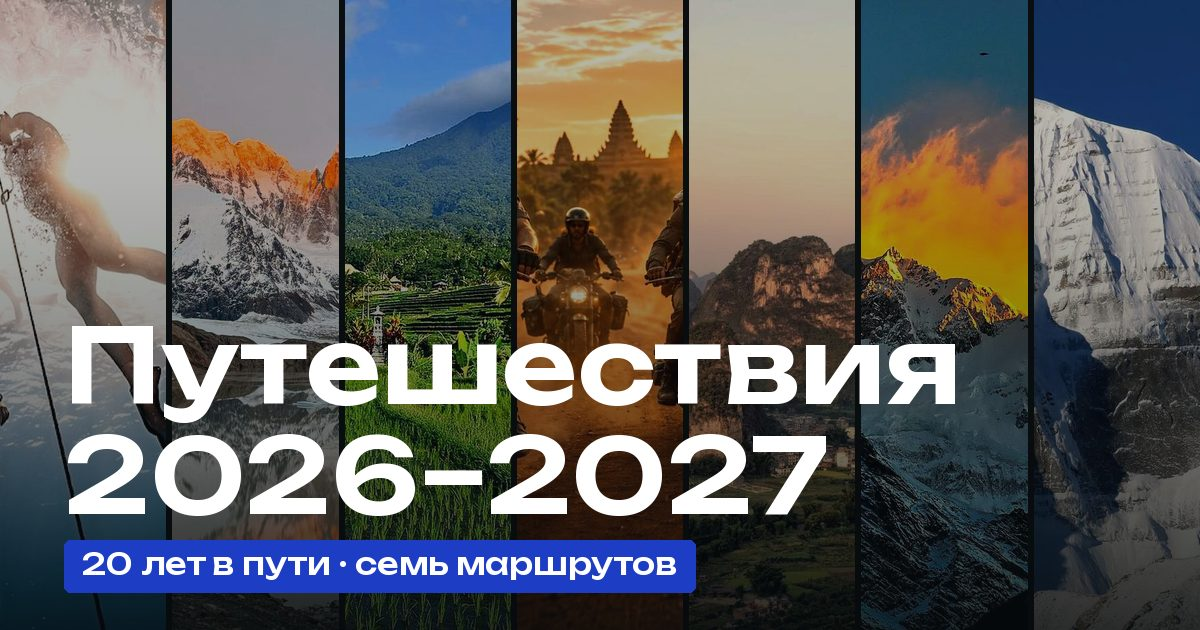
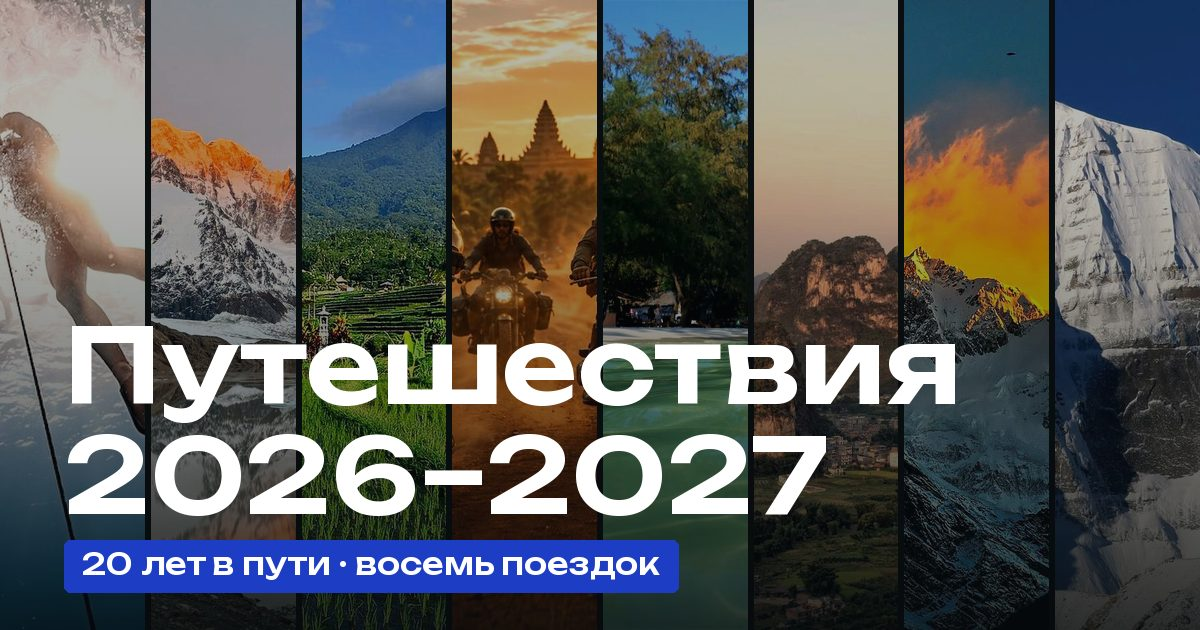
Ретрит на Ко Ронге отдельной главой после Камбоджи
- Новая поездка kohrong: 8–15 марта 2027, ведут Илья Баринов и
  Леонид Кутузов, до 20 человек, 1 000 € при двухместном размещении,
  предоплата 1 000 €. Описание и условия по cambodiamoto.ru/retreat,
  кнопка «Подробнее» ведёт туда же.
- Фото Ко Ронга с Wikimedia Commons (Rômulo Gama Ferreira, CC BY 2.0),
  автор и лицензия в подвале; WebP 1440 и 800.
- На первом экране и в превью ссылки восемь полос, «восемь поездок».

Claude-Session: https://claude.ai/code/session_01DHSb98UhaQtY4ABkNZchWn

diff --git a/index.html b/index.html
@@ -4,7 +4,7 @@
 <meta charset="utf-8">
 <meta name="viewport" content="width=device-width, initial-scale=1, viewport-fit=cover">
 <title>Путешествия 2026–2027</title>
-<meta name="description" content="Авторские путешествия, 20 лет опыта: особые места, практики в дороге и небольшие группы. Дахаб, Патагония, Бали, Камбоджа, Китай, Канченджанга и Тибет в сезоне 2026–2027.">
+<meta name="description" content="Авторские путешествия, 20 лет опыта: особые места, практики в дороге и небольшие группы. Дахаб, Патагония, Бали, Камбоджа, ретрит на Ко Ронге, Китай, Канченджанга и Тибет в сезоне 2026–2027.">
 <link rel="canonical" href="https://utromaya-code.github.io/travel-hub/">
 <link rel="icon" href="favicon.ico" sizes="32x32">
 <link rel="icon" href="favicon.svg" type="image/svg+xml">
@@ -15,11 +15,11 @@
 <meta property="og:locale" content="ru_RU">
 <meta property="og:url" content="https://utromaya-code.github.io/travel-hub/">
 <meta property="og:title" content="Путешествия 2026–2027">
-<meta property="og:description" content="Авторские путешествия, 20 лет опыта: особые места, практики в дороге и небольшие группы. Дахаб, Патагония, Бали, Камбоджа, Китай, Канченджанга и Тибет в сезоне 2026–2027.">
-<meta property="og:image" content="https://utromaya-code.github.io/travel-hub/img/og.jpg?v=982fd31d">
+<meta property="og:description" content="Авторские путешествия, 20 лет опыта: особые места, практики в дороге и небольшие группы. Дахаб, Патагония, Бали, Камбоджа, ретрит на Ко Ронге, Китай, Канченджанга и Тибет в сезоне 2026–2027.">
+<meta property="og:image" content="https://utromaya-code.github.io/travel-hub/img/og.jpg?v=454901f4">
 <meta property="og:image:width" content="1200">
 <meta property="og:image:height" content="630">
-<meta property="og:image:alt" content="Семь фото-полос поездок сезона и заголовок «Путешествия 2026–2027»">
+<meta property="og:image:alt" content="Восемь фото-полос поездок сезона и заголовок «Путешествия 2026–2027»">
 <meta name="twitter:card" content="summary_large_image">
 <link rel="preload" href="fonts/unbounded-cyrillic.woff2" as="font" type="font/woff2" crossorigin><link rel="preload" href="fonts/onest-cyrillic.woff2" as="font" type="font/woff2" crossorigin><link rel="preload" href="fonts/onest-latin.woff2" as="font" type="font/woff2" crossorigin><link rel="preload" href="img/dahab-800.webp" as="image" fetchpriority="high">
 <style>
@@ -38,7 +38,7 @@
 @font-face{font-family:"Unbounded";font-style:normal;font-weight:500 600;font-display:swap;src:url(fonts/unbounded-latin-ext.woff2) format("woff2");unicode-range:U+0100-02BA,U+02BD-02C5,U+02C7-02CC,U+02CE-02D7,U+02DD-02FF,U+0304,U+0308,U+0329,U+1D00-1DBF,U+1E00-1E9F,U+1EF2-1EFF,U+2020,U+20A0-20AB,U+20AD-20C4,U+2113,U+2C60-2C7F,U+A720-A7FF}
 @font-face{font-family:"Unbounded";font-style:normal;font-weight:500 600;font-display:swap;src:url(fonts/unbounded-latin.woff2) format("woff2");unicode-range:U+0000-00FF,U+0131,U+0152-0153,U+02BB-02BC,U+02C6,U+02DA,U+02DC,U+0304,U+0308,U+0329,U+2000-206F,U+20AC,U+2122,U+2191,U+2193,U+2212,U+2215,U+FEFF,U+FFFD}
 
-/* Витрина сезона: тёмный первый экран с семью фото-полосами, горящие места, главы-поездки на всю ширину, снимки прошлых поездок. */
+/* Витрина сезона: тёмный первый экран с фото-полосами всех поездок, горящие места, главы-поездки на всю ширину, снимки прошлых поездок. */
 :root{
   --paper:#F0F3F2; --surface:#FFFFFF; --ink:#111A1C; --ink-soft:#4C5A5D; --line:#D2DAD9;
   --stamp:#1D3EC4; --on-stamp:#FFFFFF; --stamp-wash:rgba(29,62,196,.08);
@@ -336,6 +336,7 @@ footer a{color:var(--ink-soft)}
 .t-patagonia{--img:url("img/patagonia-800.webp");--pos:30% 50%}
 .t-bali{--img:url("img/bali-800.webp");--pos:50% 55%}
 .t-cambodia{--img:url("img/cambodia-800.webp");--pos:50% 55%}
+.t-kohrong{--img:url("img/kohrong-800.webp");--pos:30% 50%}
 .t-china{--img:url("img/china-800.webp");--pos:50% 50%}
 .t-kanchenjunga{--img:url("img/kanchenjunga-800.webp");--pos:72% 40%}
 .t-tibet{--img:url("img/tibet-800.webp");--pos:50% 35%}
@@ -351,7 +352,7 @@ footer a{color:var(--ink-soft)}
 
   <div class="intro">
     <header class="hero">
-      <p class="eyebrow">Сезон 2026–2027 · семь путешествий</p>
+      <p class="eyebrow">Сезон 2026–2027 · восемь поездок</p>
       <h1>Комфорт забывается.<br>Впечатления остаются.</h1>
       <p class="lead">Уже 20 лет мы ищем особые места и собираем маршруты, ради которых стоит лететь через полмира: утренняя пуджа в тибетском монастыре, рассвет над облаками на вулкане, кора вокруг Кайласа. Добавляем йогу, цигун и медитацию, чтобы поездка давала силы телу и голове. И едем небольшой компанией, в которую легко влиться.</p>
       <div class="hero-cta">
@@ -366,6 +367,7 @@ footer a{color:var(--ink-soft)}
       <a class="spine t-patagonia" href="#patagonia"><span class="spine-name">Патагония</span> <span class="spine-month">янв</span><span class="sr">3–15 января 2027</span></a>
       <a class="spine t-bali" href="#bali"><span class="spine-name">Бали</span> <span class="spine-month">фев</span><span class="sr">12–22 февраля 2027</span></a>
       <a class="spine t-cambodia" href="#cambodia"><span class="spine-name">Камбоджа</span> <span class="spine-month">фев</span><span class="sr">26 февраля – 8 марта 2027</span></a>
+      <a class="spine t-kohrong" href="#kohrong"><span class="spine-name">Ко Ронг</span> <span class="spine-month">мар</span><span class="sr">8–15 марта 2027</span></a>
       <a class="spine t-china" href="#china"><span class="spine-name">Китай</span> <span class="spine-month">мар</span><span class="sr">23 марта – 2 апреля 2027</span></a>
       <a class="spine t-kanchenjunga" href="#kanchenjunga"><span class="spine-name">Канченджанга</span> <span class="spine-month">апр</span><span class="sr">5–20 апреля 2027</span></a>
       <a class="spine t-tibet" href="#tibet"><span class="spine-name">Тибет</span> <span class="spine-month">авг</span><span class="sr">12–29 августа 2027</span></a>
@@ -390,7 +392,7 @@ footer a{color:var(--ink-soft)}
   </ul>
 </section>
 
-<nav class="tripnav" aria-label="Поездки сезона"><div class="wrap tripnav-in"><a href="#dahab"><small>ноя</small> Дахаб</a><a href="#patagonia"><small>янв</small> Патагония</a><a href="#bali"><small>фев</small> Бали</a><a href="#cambodia"><small>фев</small> Камбоджа</a><a href="#china"><small>мар</small> Китай</a><a href="#kanchenjunga"><small>апр</small> Канченджанга</a><a href="#tibet"><small>авг</small> Тибет</a></div></nav>
+<nav class="tripnav" aria-label="Поездки сезона"><div class="wrap tripnav-in"><a href="#dahab"><small>ноя</small> Дахаб</a><a href="#patagonia"><small>янв</small> Патагония</a><a href="#bali"><small>фев</small> Бали</a><a href="#cambodia"><small>фев</small> Камбоджа</a><a href="#kohrong"><small>мар</small> Ко Ронг</a><a href="#china"><small>мар</small> Китай</a><a href="#kanchenjunga"><small>апр</small> Канченджанга</a><a href="#tibet"><small>авг</small> Тибет</a></div></nav>
 
 <main class="trips">
   <article class="trip t-dahab" id="dahab" data-start="2026-11-11" data-end="2026-11-21">
@@ -494,6 +496,32 @@ footer a{color:var(--ink-soft)}
         <p class="micro">Заявка ни к чему не обязывает. Место закрепляет предоплата 1 000 €.</p>
         <a class="btn btn-ghost" href="https://cambodiamoto.ru" target="_blank" rel="noopener">Подробнее о поездке ↗</a>
         <p class="domain">cambodiamoto.ru</p>
+      </div>
+    </div>
+  </article>
+  <article class="trip t-kohrong" id="kohrong" data-start="2027-03-08" data-end="2027-03-15">
+    <a class="trip-photo" href="https://cambodiamoto.ru/retreat/" target="_blank" rel="noopener" aria-label="Ко Ронг: открыть сайт поездки">
+      <picture><source media="(max-width:599px)" srcset="img/kohrong-800.webp" type="image/webp"><source srcset="img/kohrong-1440.webp" type="image/webp"><img src="img/kohrong.jpg" class="photo" alt="Прозрачная зелёная вода у пляжа Ко Ронга, на берегу деревья" loading="lazy" decoding="async"></picture>
+      <span class="badges"><span class="stamp">8–15 марта 2027</span><span class="chips"><span class="status" hidden></span></span></span>
+      <div class="cap">
+        <span class="kicker">Ретрит</span>
+        <h2>Ко Ронг</h2>
+        <span class="project">«Ретрит на острове»</span>
+      </div>
+    </a>
+    <div class="wrap trip-body">
+      <p class="route">Сиануквиль → лодка → Ко Ронг</p>
+      <div class="trip-main">
+        <p class="trip-text">Неделя на острове в Сиамском заливе: сразу после мототура по Камбодже или отдельно от него. Йога, цигун и медитация утром и вечером, между ними море и свободное время. Белые пляжи, джунгли и почти нет дорог, остров так и не стал курортом. Живём в отеле 4★ у самого моря, с бассейном и завтраками. Подходит для любого уровня.</p>
+        <dl class="facts"><dt>Даты</dt><dd>8–15 марта 2027</dd><dt>Длительность</dt><dd>7 дней</dd><dt>Ведут</dt><dd>Илья Баринов, Леонид Кутузов</dd><dt>Группа</dt><dd>до 20 человек</dd></dl>
+      </div>
+      <div class="aside">
+        
+        <p class="aside-label">Стоимость</p><ol class="ladder"><li class="tier is-now"><span class="tier-price">1 000 €</span><span class="tier-label">Двухместное размещение</span><span class="tier-state">сейчас</span></li></ol>
+        <a class="btn btn-primary" href="https://t.me/vsemaya?text=%D0%97%D0%B4%D1%80%D0%B0%D0%B2%D1%81%D1%82%D0%B2%D1%83%D0%B9%D1%82%D0%B5%21%20%D0%A5%D0%BE%D1%87%D1%83%20%D0%B7%D0%B0%D0%B1%D1%80%D0%BE%D0%BD%D0%B8%D1%80%D0%BE%D0%B2%D0%B0%D1%82%D1%8C%20%D0%BC%D0%B5%D1%81%D1%82%D0%BE%3A%20%D0%9A%D0%BE%20%D0%A0%D0%BE%D0%BD%D0%B3%2C%20%C2%AB%D0%A0%D0%B5%D1%82%D1%80%D0%B8%D1%82%20%D0%BD%D0%B0%20%D0%BE%D1%81%D1%82%D1%80%D0%BE%D0%B2%D0%B5%C2%BB%2C%208%E2%80%9315%20%D0%BC%D0%B0%D1%80%D1%82%D0%B0%202027." target="_blank" rel="noopener">Забронировать место</a>
+        <p class="micro">Заявка ни к чему не обязывает. Место закрепляет предоплата 1 000 €.</p>
+        <a class="btn btn-ghost" href="https://cambodiamoto.ru/retreat/" target="_blank" rel="noopener">Подробнее о поездке ↗</a>
+        <p class="domain">cambodiamoto.ru/retreat</p>
       </div>
     </div>
   </article>
@@ -630,7 +658,7 @@ footer a{color:var(--ink-soft)}
 
 <footer class="wrap">
   <span>Андрей Баранов · авторские путешествия · 2026–2027. Места и цены на 28 октября 2026.</span>
-  <span>Фото с Wikimedia Commons, кадрировано: Бали: <a href="https://commons.wikimedia.org/w/index.php?curid=60538665" target="_blank" rel="noopener">Putu Andika Panendra</a>, <a href="https://creativecommons.org/licenses/by-sa/4.0/" target="_blank" rel="noopener">CC BY-SA 4.0</a>; Яншо: <a href="https://commons.wikimedia.org/w/index.php?curid=17072137" target="_blank" rel="noopener">chensiyuan</a>, <a href="https://creativecommons.org/licenses/by-sa/4.0/" target="_blank" rel="noopener">CC BY-SA 4.0</a>; Кайлас: <a href="https://commons.wikimedia.org/wiki/File:Kailash-Tibet-27-Sept-2018.jpg" target="_blank" rel="noopener">Tibetissimo</a>, <a href="https://creativecommons.org/licenses/by-sa/4.0/" target="_blank" rel="noopener">CC BY-SA 4.0</a>. Остальные снимки из материалов поездок.</span>
+  <span>Фото с Wikimedia Commons, кадрировано: Бали: <a href="https://commons.wikimedia.org/w/index.php?curid=60538665" target="_blank" rel="noopener">Putu Andika Panendra</a>, <a href="https://creativecommons.org/licenses/by-sa/4.0/" target="_blank" rel="noopener">CC BY-SA 4.0</a>; Яншо: <a href="https://commons.wikimedia.org/w/index.php?curid=17072137" target="_blank" rel="noopener">chensiyuan</a>, <a href="https://creativecommons.org/licenses/by-sa/4.0/" target="_blank" rel="noopener">CC BY-SA 4.0</a>; Кайлас: <a href="https://commons.wikimedia.org/wiki/File:Kailash-Tibet-27-Sept-2018.jpg" target="_blank" rel="noopener">Tibetissimo</a>, <a href="https://creativecommons.org/licenses/by-sa/4.0/" target="_blank" rel="noopener">CC BY-SA 4.0</a>; Ко Ронг: <a href="https://commons.wikimedia.org/wiki/File:Koh_Rong_-_Cambodia_(50925115453).jpg" target="_blank" rel="noopener">Rômulo Gama Ferreira</a>, <a href="https://creativecommons.org/licenses/by/2.0/" target="_blank" rel="noopener">CC BY 2.0</a>. Остальные снимки из материалов поездок.</span>
 </footer>
 
 <div class="dock">

diff --git a/build.py b/build.py
@@ -55,7 +55,7 @@ FONT_FACES = """
 PRELOAD = ("unbounded-cyrillic", "onest-cyrillic", "onest-latin")
 
 CSS = r"""
-/* Витрина сезона: тёмный первый экран с семью фото-полосами, горящие места, главы-поездки на всю ширину, снимки прошлых поездок. */
+/* Витрина сезона: тёмный первый экран с фото-полосами всех поездок, горящие места, главы-поездки на всю ширину, снимки прошлых поездок. */
 :root{
   --paper:#F0F3F2; --surface:#FFFFFF; --ink:#111A1C; --ink-soft:#4C5A5D; --line:#D2DAD9;
   --stamp:#1D3EC4; --on-stamp:#FFFFFF; --stamp-wash:rgba(29,62,196,.08);

diff --git a/README.md b/README.md
@@ -73,5 +73,5 @@
 ## Откуда данные
 
 Даты, цены, ведущие и ссылки взяты с сайтов поездок на 13.10.2026, цены сверены ещё раз 28.10.2026:
-dahab-camp.ru, patagonya.ru, bali-soul.ru, cambodiamoto.ru, shangrila-trip.ru, kanchenjunga.ru, tibet2027.ru.
+dahab-camp.ru, patagonya.ru, bali-soul.ru, cambodiamoto.ru (и cambodiamoto.ru/retreat для ретрита на Ко Ронге), shangrila-trip.ru, kanchenjunga.ru, tibet2027.ru.
 Цена Канченджанги ($2 200 / $2 500) взята из решения по туру: на kanchenjunga.ru цифры в тексте страницы не найдены.
